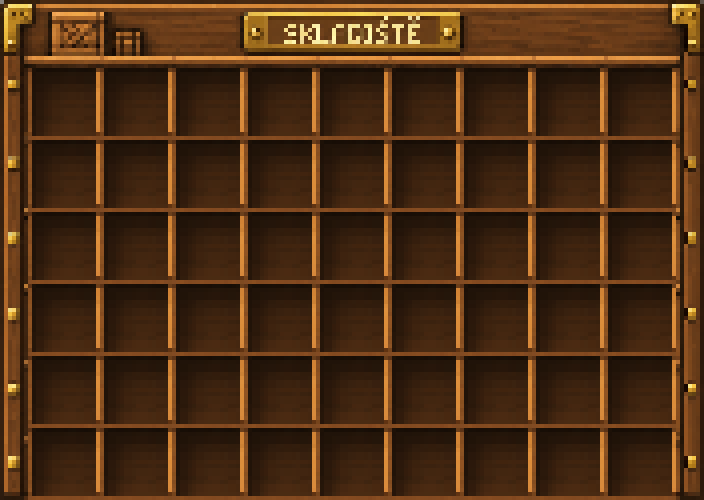
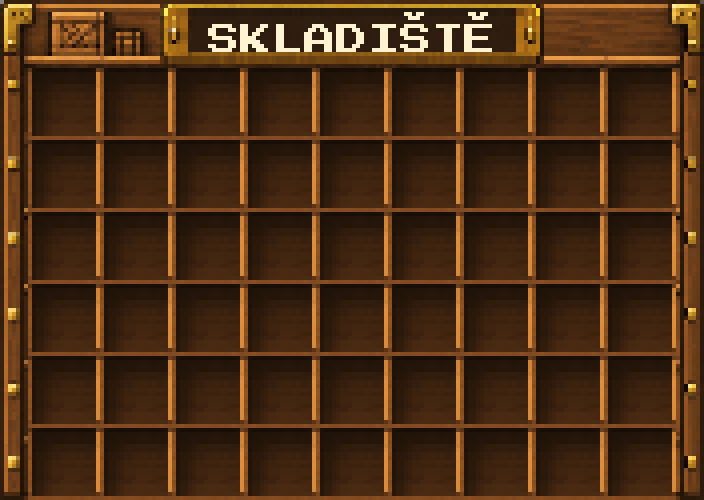
Typeset crisp Czech pixel title on storage GUI

Changed region(s): [[0.2188, 0.0, 0.7812, 0.15]]

diff --git a/README.md b/README.md
@@ -47,6 +47,8 @@ Pro standardní souřadnice Minecraft menu se při měřítku **1:1** počítá 
 
 Horní panel zachovává **54 slotů v 6 řadách po 9** na standardních souřadnicích šablony. Dřevěné poličky tvoří rámečky slotů; hráčův inventář do obrázku není zahrnutý. Rozměr **176 × 125 px** odpovídá horní části šestiřadého chest menu: 17 px horní lišty a 108 px mřížky. Sloty mají přesnou rozteč **18 px** a prostor **16 × 16 px** pro každý item.
 
+Nadpis **SKLADIŠTĚ** je vysázen ostrým pixelovým písmem s českými háčky. Poličky a souřadnice všech slotů zůstaly zachované.
+
 [![Zvětšený náhled skladiště s poličkami](skladiste_policky_preview.png)](skladiste_policky_176x125.png)
 
 - [PNG — horní panel 176 × 125 px](skladiste_policky_176x125.png)
